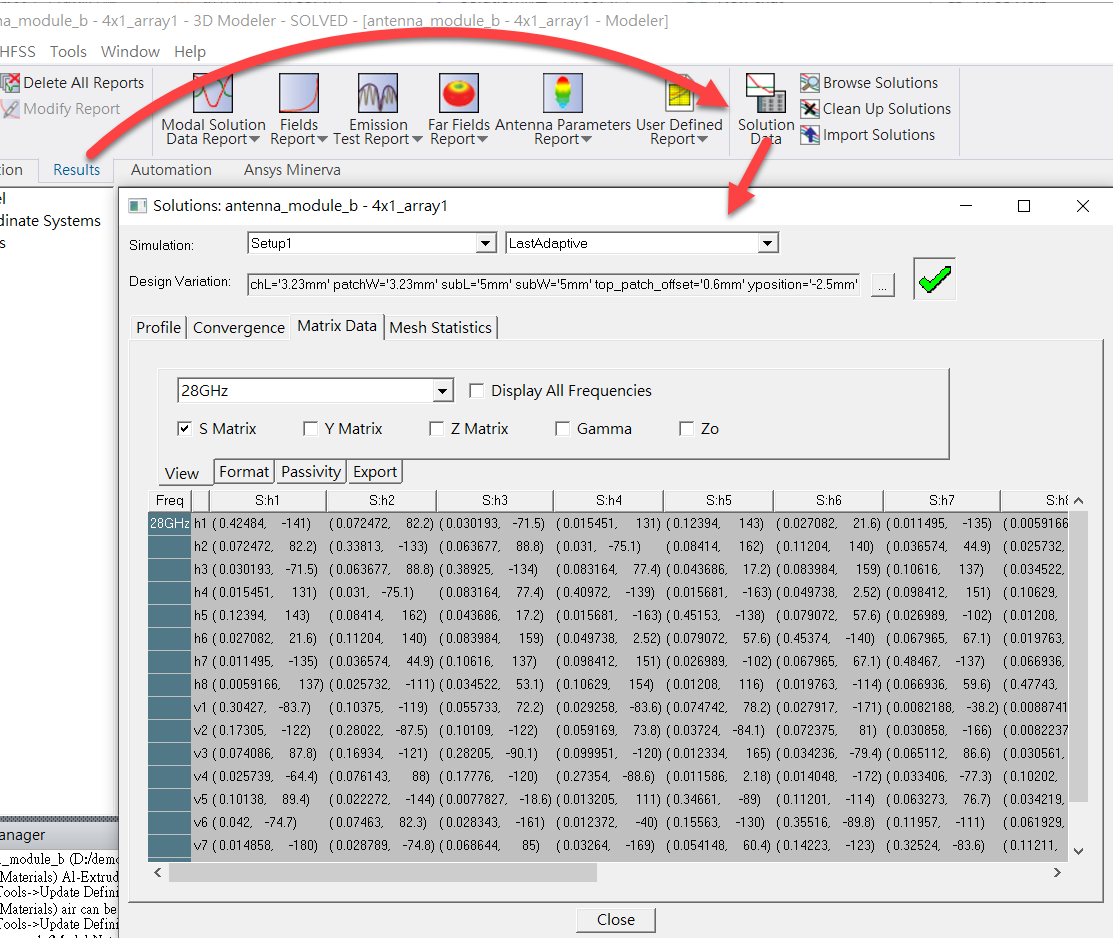
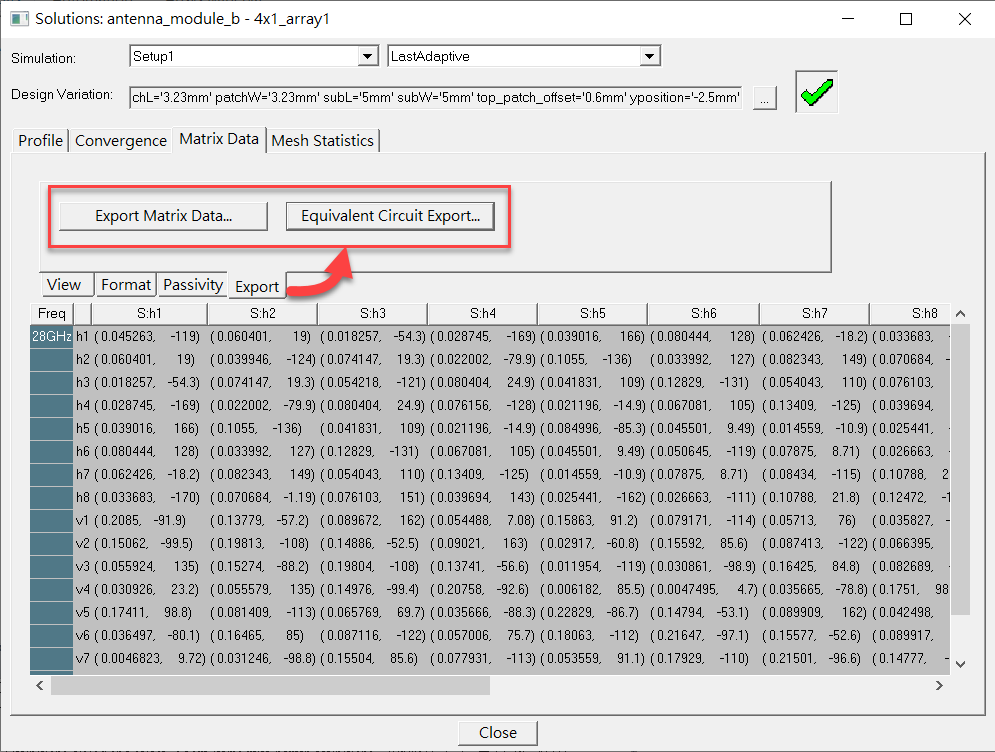
GITBOOK-122: change request with no subject merged in GitBook

diff --git a/SUMMARY.md b/SUMMARY.md
@@ -30,7 +30,7 @@
   * [模擬紀錄(Profile)與收斂曲線圖](mo-ni-zhi-hang/mo-ni-ji-lu-profile-yu-shou-lian-qu-xian-tu.md)
 * [模擬後資料處理與分析](mo-ni-hou-zi-liao-chu-li-yu-fen-xi/README.md)
   * [模擬報告輸出](hfss-she-ji-huan-jing-jie-shao/zi-liao-fen-xi-yu-shi-jue-hua.md)
-  * [場顯示與動畫](hfss-she-ji-huan-jing-jie-shao/chang-xian-shi-yu-dong-hua.md)
+  * [場顯示](hfss-she-ji-huan-jing-jie-shao/chang-xian-shi-yu-dong-hua.md)
   * [電路模型匯出](mo-ni-hou-zi-liao-chu-li-yu-fen-xi/dian-lu-mo-xing-hui-chu.md)
 * [進階功能解說](jin-jie-gong-neng-jie-shuo/README.md)
   * [內建範例](jin-jie-gong-neng-jie-shuo/fan-li.md)

diff --git a/mo-ni-zhi-hang/mo-ni-ji-lu-profile-yu-shou-lian-qu-xian-tu.md b/mo-ni-zhi-hang/mo-ni-ji-lu-profile-yu-shou-lian-qu-xian-tu.md
@@ -6,7 +6,7 @@
 
 通過檢查這些計算資源或設定檔資料，您可以了解分析過程中各個任務的執行時間以及所需的記憶體資源。這可以幫助您評估分析的效率和資源需求，並優化計算設定以達到更好的性能。
 
-<figure><img src="../.gitbook/assets/image (10).png" alt=""><figcaption></figcaption></figure>
+<figure><img src="../.gitbook/assets/image (10) (2).png" alt=""><figcaption></figcaption></figure>
 
 ### 收斂曲線
 

diff --git a/mo-ni-hou-zi-liao-chu-li-yu-fen-xi/dian-lu-mo-xing-hui-chu.md b/mo-ni-hou-zi-liao-chu-li-yu-fen-xi/dian-lu-mo-xing-hui-chu.md
@@ -1,2 +1,9 @@
+---
+description: 在 HFSS 中，可以將模擬結果，如 S 參數、Z 參數或 Y 參數等矩陣數據導出到檔案中，這些檔案可以用於後續的分析或與其他軟體進行交互。
+---
+
 # 電路模型匯出
 
+
+
+<figure><img src="../.gitbook/assets/image (8).png" alt=""><figcaption></figcaption></figure>

diff --git a/mo-ni-zhi-hang/solution-shi-chuang.md b/mo-ni-zhi-hang/solution-shi-chuang.md
@@ -4,7 +4,7 @@ description: 在Ansys Electronics Desktop生成解決方案時，或在解決方
 
 # Solution視窗
 
-<figure><img src="../.gitbook/assets/image (8).png" alt=""><figcaption></figcaption></figure>
+<figure><img src="../.gitbook/assets/image (8) (2).png" alt=""><figcaption></figcaption></figure>
 
 ### 模擬相關統計訊息
 

diff --git a/hfss-she-ji-huan-jing-jie-shao/mo-ni-she-ding.md b/hfss-she-ji-huan-jing-jie-shao/mo-ni-she-ding.md
@@ -12,4 +12,4 @@
 
 設定底下可以加入掃頻範圍及點數。
 
-<figure><img src="../.gitbook/assets/image (10) (2).png" alt=""><figcaption></figcaption></figure>
+<figure><img src="../.gitbook/assets/image (10) (2) (1).png" alt=""><figcaption></figcaption></figure>

diff --git a/hfss-she-ji-huan-jing-jie-shao/chang-xian-shi-yu-dong-hua.md b/hfss-she-ji-huan-jing-jie-shao/chang-xian-shi-yu-dong-hua.md
@@ -1,2 +1,7 @@
-# 場顯示與動畫
+---
+description: 在 HFSS 中，你可以視覺化電場、磁場、表面電流等的分布情況
+---
 
+# 場顯示
+
+<figure><img src="../.gitbook/assets/image (10).png" alt=""><figcaption></figcaption></figure>
